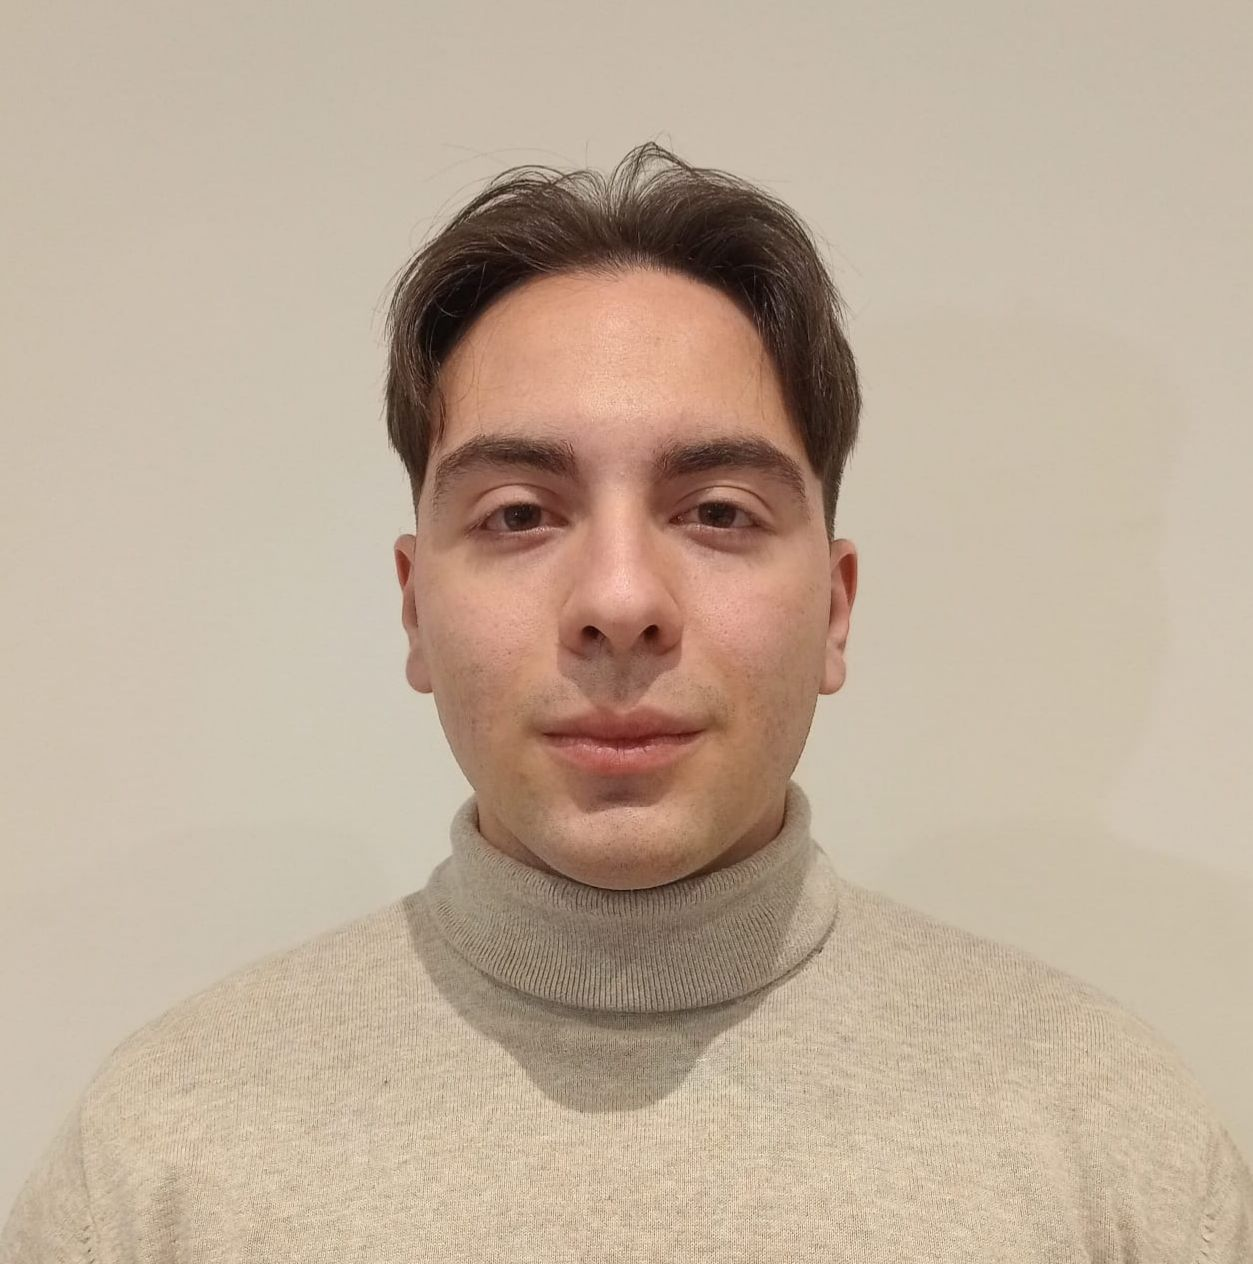
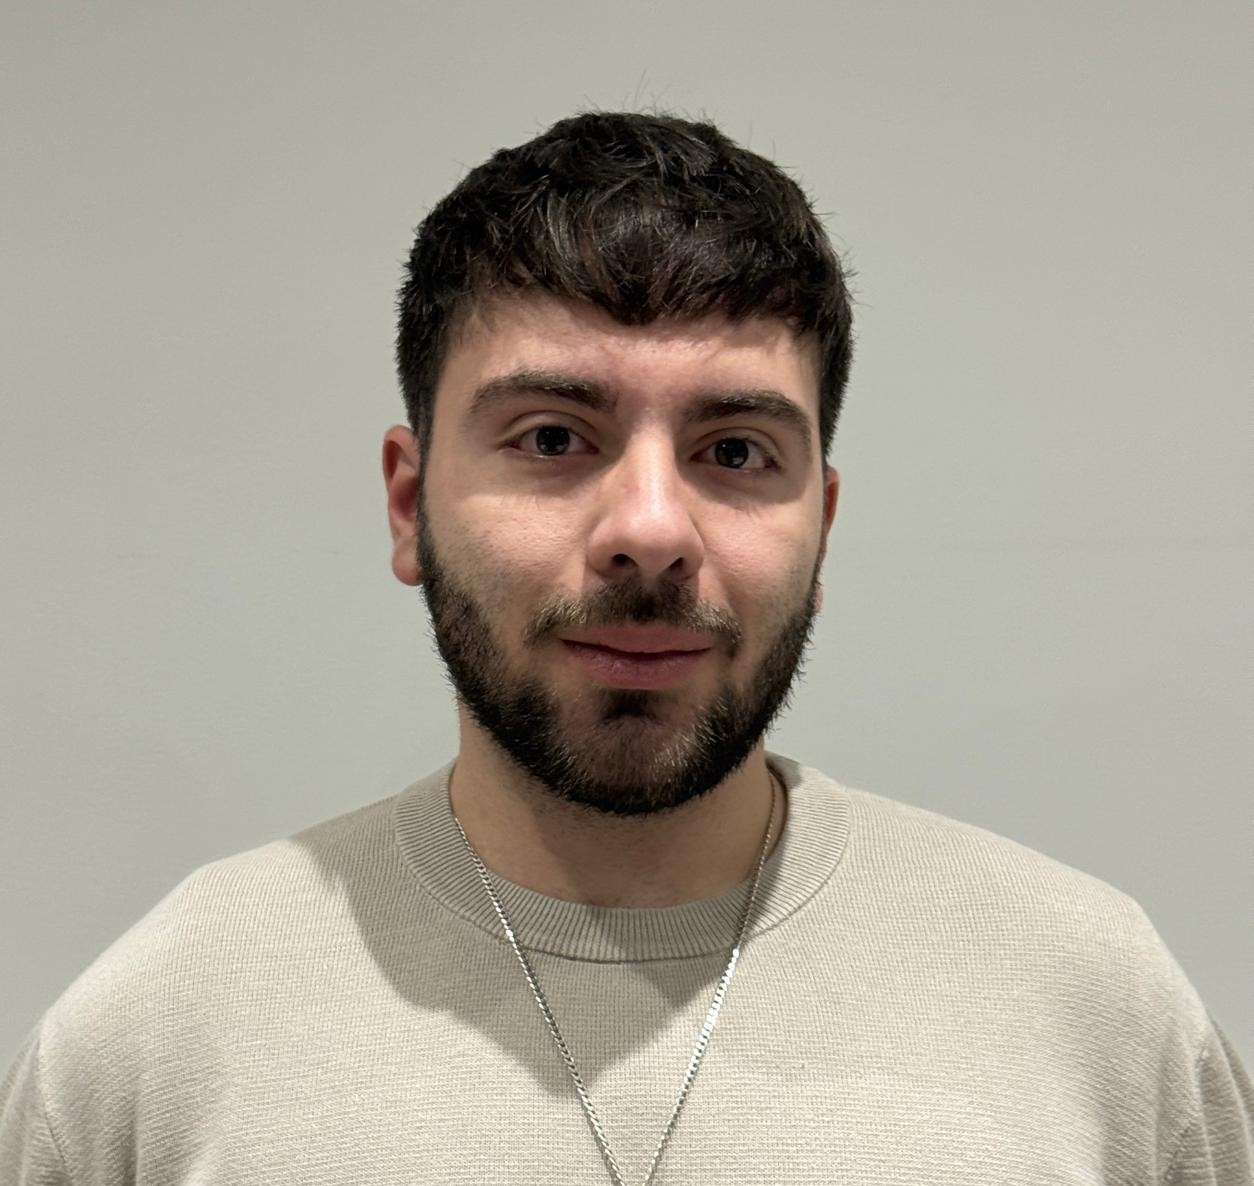
Mejora visual del portfolio

diff --git a/src/App.jsx b/src/App.jsx
@@ -33,7 +33,7 @@ function App() {
               <article className="App-section card">
                 <div className="App-estudios">
                   <h3>Desarrollador de automatizaciones</h3>
-                  <span className="card-date">Mar 2025 - Jun 2025</span>
+                  <span className="card-date">Mar 2025 - Jun 2025 · 4 meses</span>
                   <p>
                     Desarrollo de una macro en VBA para Excel que automatiza el
                     cruce de información entre varias hojas y archivos. Además,
@@ -125,6 +125,15 @@ function App() {
                 <div className="App-estudios">
                   <h3>Bachillerato en Ciencias y Tecnología</h3>
                   <p>IES Cardenal Cisneros</p>
+                  <p>Alcalá de Henares, Madrid</p>
+                </div>
+              </article>
+
+              <article className="App-section card">
+                <div className="App-estudios">
+                  <h3>Inglés</h3>
+                  <p>Nivel B1</p>
+                  <p>Academia De Inglés Queen's Language School</p>
                   <p>Alcalá de Henares, Madrid</p>
                 </div>
               </article>
